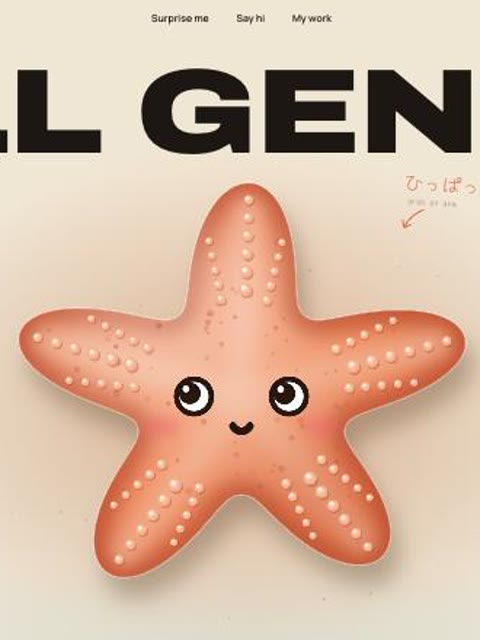
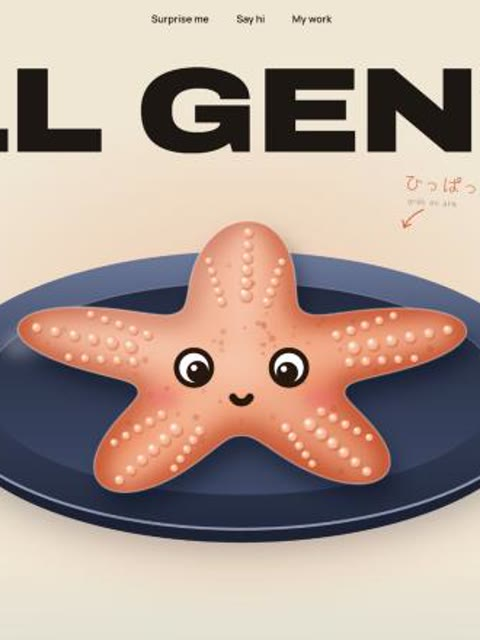
Starfish hero: Hoshi on the navy plate, 13 facial expressions, side text and stamp removed

diff --git a/designs/starfish-hero.html b/designs/starfish-hero.html
@@ -117,9 +117,6 @@
     <div class="meta"><span>Manisha Baroliya · <b>UX/UI &amp; product designer</b></span><span>3+ years · <b>20+ live designs</b></span></div>
     <h1 id="h1"><span id="h1t">PULL GENTLY<span class="dot">.</span></span></h1>
 
-    <div class="kana l" aria-hidden="true">ひとで</div>
-    <div class="kana r" aria-hidden="true">きらきら</div>
-    <div class="stamp" id="stamp" aria-hidden="true"><i>海</i><b>ほし</b></div>
 
     <canvas id="cv"></canvas>
     <div id="stage" tabindex="0" role="img" aria-label="Hoshi the starfish. Drag one of his arms to stretch it, or focus and hold the arrow keys."></div>
@@ -161,7 +158,7 @@
   const POOL = 5;
   const $ = id => document.getElementById(id);
   const hero = $('hero'), cv = $('cv'), ctx = cv.getContext('2d'), stage = $('stage');
-  const hint = $('hint'), tip = $('tip'), stamp = $('stamp'), h1 = $('h1');
+  const hint = $('hint'), tip = $('tip'), h1 = $('h1');
   const moodEl = $('mood'), cmEl = $('cm'), fillEl = $('fill'), bestEl = $('bestm'), flavEl = $('flav');
   const reduce = matchMedia('(prefers-reduced-motion: reduce)').matches;
 
@@ -171,7 +168,7 @@
 
   // ---------- state ----------
   let W = 0, H = 0, dpr = 1, R = 100, cx = 0, cy = 0, Lmax = 100;
-  const N = 240, ARMS = 5, ARM_N = N / ARMS, YS = 0.9;   // YS: slight tilt so he lies on the sand
+  const N = 240, ARMS = 5, ARM_N = N / ARMS, YS = 0.62;   // YS: he lies on the plate, seen at an angle
   let rest = [], ang = [], armOf = [], gOf = [];
   const off = [], vel = [], tgt = [];
   for (let i = 0; i < N; i++) { off.push({x:0,y:0}); vel.push({x:0,y:0}); tgt.push({x:0,y:0}); }
@@ -183,6 +180,7 @@
   let look = {x:0, y:0};
   let clock = performance.now(), last = clock;
   let snapUntil = 0, wobbleUntil = 0, giggleUntil = 0, wiggleUntil = 0, pulledThisGrab = 0;
+  let dizzyUntil = 0, winkUntil = 0, loveUntil = 0, proudUntil = 0, idleAt = performance.now(), hoverSince = 0;
   const pool = [];
 
   // freckles fixed to the body: (vertex, how far out along it)
@@ -197,11 +195,17 @@
     cv.width = Math.round(W*dpr); cv.height = Math.round(H*dpr);
     fitTitle();
     const titleBottom = h1.offsetTop + h1.offsetHeight;
-    if (W < 760) { R = Math.min(W*0.46, H*0.26); cy = titleBottom + R*1.15; }
+    if (W < 760) { R = Math.min((W - 20)/2.66, H*0.24); cy = titleBottom + R*1.15; }
     else {
-      R = Math.min(W*0.2, H*0.38, 360, (H - titleBottom - 12)/1.95);
-      cy = Math.max(titleBottom + R*1.0, H*0.58);
-      if (cy + R*0.95 > H) cy = H - R*0.95;
+      R = Math.min(W*0.2, H*0.4, 360, (H - titleBottom - 16)/1.62);
+      cy = Math.max(titleBottom + R*0.72, H*0.58);
+      if (cy + R*0.9 > H) cy = H - R*0.9;
+      // on narrower screens keep the plate above the side panels instead of under them
+      const pan = document.querySelector('.panel'), panTop = pan.offsetTop, panLeft = pan.offsetLeft;
+      if (W/2 + 1.32*R > panLeft - 8) {
+        R = Math.min(R, (panTop - 10 - titleBottom)/1.52);
+        cy = Math.min(Math.max(titleBottom + R*0.72, cy), panTop - 10 - R*0.8);
+      }
     }
     cx = W/2; Lmax = R*1.05;
     rest = []; ang = []; armOf = []; gOf = [];
@@ -214,10 +218,9 @@
       armOf.push(Math.round(k/ARM_N) % ARMS); gOf.push(g);
     }
     for (let i = 0; i < N; i++) { off[i].x = off[i].y = vel[i].x = vel[i].y = 0; }
-    Object.assign(stage.style, { left: (cx - R*1.3) + 'px', top: (cy - R*1.2) + 'px', width: (R*2.6) + 'px', height: (R*2.3) + 'px' });
+    Object.assign(stage.style, { left: (cx - R*1.35) + 'px', top: (cy - R*0.95) + 'px', width: (R*2.7) + 'px', height: (R*1.9) + 'px' });
     hero.style.setProperty('--gy', cy + 'px');
-    stamp.style.left = Math.max(40, cx - R*1.3) + 'px'; stamp.style.top = (cy - R*0.75) + 'px';
-    hint.style.left = Math.min(W - 130, cx + R*0.7) + 'px'; hint.style.top = Math.max(titleBottom + 8, cy - R*1.12) + 'px';
+    hint.style.left = Math.min(W - 130, cx + R*0.7) + 'px'; hint.style.top = Math.max(titleBottom + 8, cy - R*0.85) + 'px';
     return true;
   }
   function fitTitle() {
@@ -275,11 +278,12 @@
   stage.addEventListener('pointermove', e => {
     const p = local(e); look = p;
     if (grab.on && !grab.kb && e.pointerId === grab.id) { grab.x = p.x; grab.y = p.y; return; }
-    hover = inBody(p.x, p.y);
+    const was = hover; hover = inBody(p.x, p.y); if (hover && !was) hoverSince = clock;
     stage.style.cursor = hover ? 'grab' : 'default';
   });
   stage.addEventListener('pointerleave', () => { if (!grab.on) hover = false; });
-  hero.addEventListener('pointermove', e => { look = local(e); });
+  hero.addEventListener('pointermove', e => { look = local(e); idleAt = clock; });
+  ['pointerdown', 'keydown', 'click'].forEach(ev => addEventListener(ev, () => { idleAt = clock; }, true));
   const end = e => { if (grab.on && !grab.kb && (!e || e.pointerId === grab.id)) release(false); };
   stage.addEventListener('pointerup', end);
   stage.addEventListener('pointercancel', end);
@@ -300,7 +304,7 @@
     if (!grab.on) return;
     grab.on = false; grab.kb = false;
     stage.style.cursor = hover ? 'grab' : 'default';
-    if (snapped) { snapUntil = clock + 1400; splash(22); }
+    if (snapped) { snapUntil = clock + 700; dizzyUntil = clock + 2300; splash(22); }
     else if (pulledThisGrab > 2) { wobbleUntil = clock + 1500; splash(9); }
     else giggleUntil = clock + 1100;
   }
@@ -331,7 +335,7 @@
     document.documentElement.style.setProperty('--acc', f.acc); hero.style.setProperty('--glow', f.body);
     [...swEl.children].forEach((b, j) => b.setAttribute('aria-pressed', j === i));
     flavEl.innerHTML = `${f.deep}<em>${f.jp}</em><span>· ${f.name} Hoshi</span>`;
-    if (!quiet) { bubbles(26); giggleUntil = clock + 900; }
+    if (!quiet) { bubbles(26); winkUntil = clock + 1300; }
   }
   const boxEl = $('box'), build = $('build'), topBox = $('topBox');
   function renderPool() {
@@ -343,7 +347,8 @@
     if (pool.length >= POOL) { pool.length = 0; renderPool(); return; }
     pool.push(fl); renderPool();
     popText(pool.length >= POOL ? 'いっぱい!' : '+1', cx, cy - R*1.1);
-    bubbles(10); giggleUntil = clock + 900;
+    bubbles(10);
+    if (pool.length >= POOL) proudUntil = clock + 2000; else loveUntil = clock + 1400;
   }
   build.addEventListener('click', addToPool);
   swEl.addEventListener('click', renderPool);
@@ -424,12 +429,20 @@
     bodyC = mix(bodyC, hex(FL[fl].body), 0.07);
   }
 
+  let forced = null;   // test hook only
   function currentMood(t) {
+    if (forced) return forced;
     if (snapUntil > t) return 'ow';
+    if (dizzyUntil > t && !grab.on) return 'dizzy';
     if (grab.on) { const cm = toCm(L); return cm < 1 ? 'startled' : cm > 15 ? 'ow' : 'squished'; }
-    if (wiggleUntil > t) return 'wiggly';
+    if (wiggleUntil > t) return 'waving';
+    if (proudUntil > t) return 'proud';
+    if (loveUntil > t) return 'in love';
+    if (winkUntil > t) return 'cheeky';
     if (wobbleUntil > t) return 'wobbly';
-    if (giggleUntil > t || hover) return 'delighted';
+    if (giggleUntil > t) return 'delighted';
+    if (hover) return t - hoverSince > 2500 ? 'shy' : 'delighted';
+    if (t - idleAt > 9000) return 'sleepy';
     return 'chill';
   }
 
@@ -444,16 +457,25 @@
     const B = bodyC, deep = B.map(v => v*v/255*0.78), light = mix(B, [255,250,235], 0.45);
     const ccx = cx + ax, ccy = cy + ay;
 
-    // wet sand under him
-    ctx.save(); ctx.translate(cx, cy + R*0.12); ctx.scale(1, 0.62);
-    const ws = ctx.createRadialGradient(0, 0, R*0.3, 0, 0, R*1.8);
-    ws.addColorStop(0, 'rgba(150,115,75,.2)'); ws.addColorStop(1, 'rgba(150,115,75,0)');
-    ctx.fillStyle = ws; ctx.fillRect(-R*2, -R*2, R*4, R*4); ctx.restore();
-    // a few grains of sand
-    ctx.fillStyle = 'rgba(140,105,65,.22)';
-    for (let i = 0; i < 40; i++) { const a = i*2.399, d = R*(0.95 + (i%7)*0.12); ctx.beginPath(); ctx.arc(cx + Math.cos(a)*d*1.25, cy + R*0.1 + Math.sin(a)*d*0.55, 0.8 + (i%3)*0.5, 0, 7); ctx.fill(); }
-    // contact shadow
-    soft(R*0.1, 'rgba(90,55,25,.35)', () => { ctx.translate(R*0.04, R*0.09); ctx.fill(bodyPath); });
+    // the navy plate he lies on (same plate as Pon the mochi)
+    const px = cx, py = cy + 0.1*R, prx = 1.32*R, pry = 0.6*R;
+    soft(R*0.16, 'rgba(25,30,55,.33)', () => { ctx.beginPath(); ctx.ellipse(px, py + 0.16*R, prx*0.95, pry*0.85, 0, 0, 7); ctx.fill(); });
+    ctx.beginPath(); ctx.ellipse(px, py + 0.07*R, prx*0.97, pry*0.97, 0, 0, 7); ctx.fillStyle = '#1b2236'; ctx.fill();
+    let pg = ctx.createLinearGradient(0, py - pry, 0, py + pry);
+    pg.addColorStop(0, '#6b7b9e'); pg.addColorStop(.45, '#36425f'); pg.addColorStop(1, '#222b42');
+    ctx.beginPath(); ctx.ellipse(px, py, prx, pry, 0, 0, 7); ctx.fillStyle = pg; ctx.fill();
+    pg = ctx.createLinearGradient(0, py - pry*0.8, 0, py + pry*0.8);
+    pg.addColorStop(0, '#222a40'); pg.addColorStop(1, '#3d4a6a');
+    ctx.beginPath(); ctx.ellipse(px, py - 0.01*R, prx*0.84, pry*0.76, 0, 0, 7); ctx.fillStyle = pg; ctx.fill();
+    ctx.save(); ctx.lineCap = 'round';
+    ctx.strokeStyle = 'rgba(214,226,255,.6)'; ctx.lineWidth = Math.max(1.2, R*0.012);
+    ctx.beginPath(); ctx.ellipse(px, py, prx*0.995, pry*0.99, 0, Math.PI*0.12, Math.PI*0.88); ctx.stroke();
+    ctx.strokeStyle = 'rgba(214,226,255,.25)'; ctx.lineWidth = Math.max(1, R*0.006);
+    ctx.beginPath(); ctx.ellipse(px, py - 0.01*R, prx*0.84, pry*0.76, 0, Math.PI*1.1, Math.PI*1.9); ctx.stroke();
+    ctx.restore();
+    soft(R*0.06, 'rgba(255,255,255,.35)', () => { ctx.beginPath(); ctx.ellipse(px - prx*0.62, py - pry*0.4, prx*0.16, pry*0.12, -0.3, 0, 7); ctx.fill(); });
+    // his shadow on the plate
+    soft(R*0.09, 'rgba(8,12,28,.5)', () => { ctx.translate(R*0.03, R*0.07); ctx.fill(bodyPath); });
 
     // body base: lighter heart, deeper arm tips
     const bg = ctx.createRadialGradient(ccx, ccy, R*0.05, ccx, ccy, R*1.25);
@@ -517,62 +539,164 @@
     else tip.classList.remove('on');
   }
 
+  // every mood is a mix of eyes, mouth, brows, blush and a small extra
+  const FACES = {
+    chill:     { eyes:'round',  mouth:'smile',  blush:.4 },
+    delighted: { eyes:'happy',  mouth:'open',   blush:.6 },
+    shy:       { eyes:'down',   mouth:'wavy',   blush:.95, lines:true },
+    sleepy:    { eyes:'closed', mouth:'tiny',   blush:.35, extra:'zzz' },
+    startled:  { eyes:'big',    mouth:'o',      blush:.35, brows:'up' },
+    squished:  { eyes:'chev',   mouth:'o',      blush:.6, brows:'worried', lines:true, extra:'sweat' },
+    ow:        { eyes:'chev',   mouth:'bigO',   blush:.7, brows:'worried', lines:true, extra:'tear' },
+    dizzy:     { eyes:'spiral', mouth:'wavy',   blush:.45, extra:'stars' },
+    wobbly:    { eyes:'wavy',   mouth:'wavy',   blush:.5 },
+    waving:    { eyes:'happy',  mouth:'open',   blush:.7, brows:'up' },
+    cheeky:    { eyes:'wink',   mouth:'tongue', blush:.65 },
+    'in love': { eyes:'heart',  mouth:'open',   blush:.85, extra:'hearts' },
+    proud:     { eyes:'star',   mouth:'grin',   blush:.6, brows:'up', extra:'sparkle' },
+  };
+  function heartPath(x, y, s) {
+    ctx.beginPath(); ctx.moveTo(x, y + s*0.7);
+    ctx.bezierCurveTo(x - s*1.3, y - s*0.1, x - s*0.6, y - s*1.05, x, y - s*0.35);
+    ctx.bezierCurveTo(x + s*0.6, y - s*1.05, x + s*1.3, y - s*0.1, x, y + s*0.7);
+    ctx.closePath();
+  }
+  function starPath(x, y, ro, ri, rot = 0) {
+    ctx.beginPath();
+    for (let k = 0; k < 10; k++) { const a = rot - Math.PI/2 + k*Math.PI/5, r = k % 2 ? ri : ro; k ? ctx.lineTo(x + Math.cos(a)*r, y + Math.sin(a)*r) : ctx.moveTo(x + Math.cos(a)*r, y + Math.sin(a)*r); }
+    ctx.closePath();
+  }
   function drawFace(t, fx0, fy0) {
     const m = currentMood(t);
     if (m !== mood) { mood = m; moodEl.textContent = m; moodEl.classList.remove('bump'); void moodEl.offsetWidth; moodEl.classList.add('bump'); }
+    const F = FACES[m] || FACES.chill;
     const S = R*0.68, fx = fx0 + D.x*0.04, fy = fy0 + D.y*0.03 + S*0.02;
-    const ex = 0.3*S, lw = Math.max(2, S*0.05), ink = '#2a160c';
+    const ex = 0.3*S, lw = Math.max(2, S*0.05), ink = '#2a160c', r = 0.11*S, ey = fy - 0.02*S;
     ctx.save(); ctx.lineCap = 'round'; ctx.lineJoin = 'round'; ctx.strokeStyle = ink; ctx.fillStyle = ink; ctx.lineWidth = lw;
-    const strong = m !== 'chill' && m !== 'startled';
+
+    // blush, with little lines when flustered
     for (const s of [-1, 1]) {
-      soft(S*0.07, `rgba(255,80,110,${strong ? .6 : .4})`, () => { ctx.beginPath(); ctx.ellipse(fx + s*0.5*S, fy + 0.17*S, S*0.11, S*0.065, 0, 0, 7); ctx.fill(); });
-      if (m === 'squished' || m === 'ow') {
+      soft(S*0.07, `rgba(255,80,110,${F.blush})`, () => { ctx.beginPath(); ctx.ellipse(fx + s*0.5*S, fy + 0.17*S, S*0.11*(0.8 + F.blush*0.3), S*0.065, 0, 0, 7); ctx.fill(); });
+      if (F.lines) {
         ctx.save(); ctx.strokeStyle = 'rgba(190,40,70,.55)'; ctx.lineWidth = Math.max(1, S*0.014);
         for (let j = -1; j <= 1; j++) { const x = fx + s*0.5*S + j*S*0.04; ctx.beginPath(); ctx.moveTo(x - S*0.015, fy + 0.21*S); ctx.lineTo(x + S*0.015, fy + 0.13*S); ctx.stroke(); }
         ctx.restore();
       }
     }
-    const r = 0.11*S;
+
+    // eyes
     for (const s of [-1, 1]) {
-      const x = fx + s*ex, y = fy - 0.02*S;
-      if (m === 'startled' || m === 'chill') {
-        // round glossy eyes, looking at the pointer
-        const rr = m === 'startled' ? r*1.25 : r;
-        ctx.save(); ctx.fillStyle = '#fff'; ctx.lineWidth = lw*0.7;
-        ctx.beginPath(); ctx.arc(x, y, rr, 0, 7); ctx.fill(); ctx.stroke();
-        const dx = look.x - x, dy = look.y - y, dl = Math.hypot(dx, dy) || 1, pr = rr*0.3;
+      const x = fx + s*ex, y = ey;
+      let kind = F.eyes;
+      if (kind === 'wink') kind = s < 0 ? 'round' : 'happy';
+      if (kind === 'round' || kind === 'big') {
+        const rr = kind === 'big' ? r*1.3 : r;
         const blink = m === 'chill' && (t % 4200) < 130;
-        ctx.fillStyle = ink;
-        if (blink) { ctx.fillStyle = rgb(bodyC); ctx.beginPath(); ctx.arc(x, y, rr*1.1, 0, 7); ctx.fill(); ctx.beginPath(); ctx.moveTo(x - rr, y); ctx.lineTo(x + rr, y); ctx.stroke(); }
+        ctx.save(); ctx.lineWidth = lw*0.7;
+        if (blink) { ctx.beginPath(); ctx.moveTo(x - rr, y); ctx.lineTo(x + rr, y); ctx.stroke(); }
         else {
-          ctx.beginPath(); ctx.arc(x + dx/dl*pr, y + dy/dl*pr, rr*0.62, 0, 7); ctx.fill();
-          ctx.fillStyle = '#fff'; ctx.beginPath(); ctx.arc(x + dx/dl*pr - rr*0.22, y + dy/dl*pr - rr*0.25, rr*0.2, 0, 7); ctx.fill();
+          ctx.fillStyle = '#fff'; ctx.beginPath(); ctx.arc(x, y, rr, 0, 7); ctx.fill(); ctx.stroke();
+          const dx = look.x - x, dy = look.y - y, dl = Math.hypot(dx, dy) || 1, pr = rr*0.3;
+          const pupil = kind === 'big' ? 0.42 : 0.62;
+          ctx.fillStyle = ink; ctx.beginPath(); ctx.arc(x + dx/dl*pr, y + dy/dl*pr, rr*pupil, 0, 7); ctx.fill();
+          ctx.fillStyle = '#fff'; ctx.beginPath(); ctx.arc(x + dx/dl*pr - rr*0.2, y + dy/dl*pr - rr*0.22, rr*0.18, 0, 7); ctx.fill();
         }
         ctx.restore();
-      } else if (m === 'delighted' || m === 'wiggly') {
+      } else if (kind === 'happy') {
         ctx.beginPath(); ctx.arc(x, y + r*0.55, r, Math.PI*1.12, Math.PI*1.88); ctx.stroke();
-      } else if (m === 'wobbly') {
+      } else if (kind === 'down') {      // shy: eyes squeezed, looking away
+        ctx.beginPath(); ctx.arc(x + r*0.15, y + r*0.55, r*0.85, Math.PI*1.15, Math.PI*1.85); ctx.stroke();
+      } else if (kind === 'closed') {    // asleep: soft lids that rise and fall
+        const b = Math.sin(t/700)*r*0.06;
+        ctx.beginPath(); ctx.arc(x, y - r*0.35 + b, r, Math.PI*0.18, Math.PI*0.82); ctx.stroke();
+      } else if (kind === 'chev') {
+        const w = r*0.85, h2 = r*0.8;
+        ctx.beginPath(); ctx.moveTo(x - s*w, y - h2); ctx.lineTo(x + s*w*0.6, y); ctx.lineTo(x - s*w, y + h2); ctx.stroke();
+      } else if (kind === 'spiral') {
+        ctx.save(); ctx.lineWidth = lw*0.7; ctx.beginPath();
+        for (let k = 0; k <= 40; k++) { const u = k/40, a = u*Math.PI*5 + t/120*s, rr = r*1.1*u; k ? ctx.lineTo(x + Math.cos(a)*rr, y + Math.sin(a)*rr) : ctx.moveTo(x, y); }
+        ctx.stroke(); ctx.restore();
+      } else if (kind === 'wavy') {
         ctx.beginPath();
         for (let j = 0; j <= 12; j++) { const u = j/12, X = x - r + u*2*r, Y = y + Math.sin(u*Math.PI*3 + t/90)*r*0.25; j ? ctx.lineTo(X, Y) : ctx.moveTo(X, Y); }
         ctx.stroke();
-      } else {
-        const w = r*0.85, h2 = r*0.8;
-        ctx.beginPath(); ctx.moveTo(x - s*w, y - h2); ctx.lineTo(x + s*w*0.6, y); ctx.lineTo(x - s*w, y + h2); ctx.stroke();
+      } else if (kind === 'heart') {
+        const beat = 1 + 0.12*Math.max(0, Math.sin(t/140));
+        ctx.save(); ctx.fillStyle = '#ff4d6d'; heartPath(x, y, r*1.05*beat); ctx.fill();
+        ctx.fillStyle = 'rgba(255,255,255,.75)'; ctx.beginPath(); ctx.arc(x - r*0.45*beat, y - r*0.3*beat, r*0.18, 0, 7); ctx.fill(); ctx.restore();
+      } else if (kind === 'star') {
+        ctx.save(); ctx.fillStyle = '#ffc93c'; ctx.strokeStyle = ink; ctx.lineWidth = lw*0.55;
+        starPath(x, y, r*1.25, r*0.55, Math.sin(t/300)*0.15); ctx.fill(); ctx.stroke(); ctx.restore();
       }
     }
-    const my = fy + 0.17*S;
-    if (m === 'chill') {
-      ctx.beginPath(); ctx.arc(fx, my - 0.03*S, 0.06*S, 0.15*Math.PI, 0.85*Math.PI); ctx.stroke();
-    } else if (m === 'delighted' || m === 'wiggly') {
-      ctx.beginPath(); ctx.moveTo(fx - 0.09*S, my - 0.02*S); ctx.arc(fx, my - 0.02*S, 0.09*S, 0, Math.PI); ctx.closePath(); ctx.fill();
-      ctx.fillStyle = '#ff6f8c'; ctx.beginPath(); ctx.ellipse(fx, my + 0.04*S, 0.045*S, 0.024*S, 0, 0, 7); ctx.fill();
-    } else if (m === 'startled' || m === 'squished') {
-      ctx.lineWidth = lw*0.85; ctx.beginPath(); ctx.ellipse(fx, my, 0.034*S, 0.044*S, 0, 0, 7); ctx.stroke();
-    } else if (m === 'ow') {
-      ctx.beginPath(); ctx.ellipse(fx, my + 0.01*S, 0.055*S, 0.075*S, 0, 0, 7); ctx.fill();
-      ctx.fillStyle = '#ff6f8c'; ctx.beginPath(); ctx.ellipse(fx, my + 0.055*S, 0.032*S, 0.017*S, 0, 0, 7); ctx.fill();
-    } else {
-      ctx.beginPath(); for (let j = 0; j <= 10; j++) { const u = j/10, X = fx - 0.07*S + u*0.14*S, Y = my + Math.sin(u*Math.PI*2 + t/80)*0.018*S; j ? ctx.lineTo(X, Y) : ctx.moveTo(X, Y); } ctx.stroke();
+
+    // brows
+    if (F.brows) {
+      ctx.save(); ctx.lineWidth = lw*0.75;
+      for (const s of [-1, 1]) {
+        const x = fx + s*ex, y = ey - r*(F.eyes === 'big' ? 1.9 : 1.55);
+        ctx.beginPath();
+        if (F.brows === 'up') { ctx.arc(x, y + r*0.5, r*0.75, Math.PI*1.25, Math.PI*1.75); }
+        else { ctx.moveTo(x - s*r*0.7, y + r*0.2); ctx.lineTo(x + s*r*0.5, y - r*0.25); }   // worried: inner ends raised
+        ctx.stroke();
+      }
+      ctx.restore();
+    }
+
+    // mouth
+    const my = fy + 0.17*S, wav = (w, amp, sp) => { ctx.beginPath(); for (let j = 0; j <= 10; j++) { const u = j/10, X = fx - w + u*2*w, Y = my + Math.sin(u*Math.PI*2 + t/sp)*amp; j ? ctx.lineTo(X, Y) : ctx.moveTo(X, Y); } ctx.stroke(); };
+    switch (F.mouth) {
+      case 'smile': ctx.beginPath(); ctx.arc(fx, my - 0.03*S, 0.06*S, 0.15*Math.PI, 0.85*Math.PI); ctx.stroke(); break;
+      case 'open': case 'grin': {
+        const w = F.mouth === 'grin' ? 0.12*S : 0.09*S;
+        ctx.beginPath(); ctx.moveTo(fx - w, my - 0.02*S); ctx.arc(fx, my - 0.02*S, w, 0, Math.PI); ctx.closePath(); ctx.fill();
+        if (F.mouth === 'grin') { ctx.fillStyle = '#fff'; ctx.fillRect(fx - w*0.7, my - 0.02*S, w*1.4, w*0.22); }
+        ctx.fillStyle = '#ff6f8c'; ctx.beginPath(); ctx.ellipse(fx, my + w*0.45, w*0.5, w*0.26, 0, 0, 7); ctx.fill();
+        break;
+      }
+      case 'o': ctx.save(); ctx.lineWidth = lw*0.85; ctx.beginPath(); ctx.ellipse(fx, my, 0.034*S, 0.044*S, 0, 0, 7); ctx.stroke(); ctx.restore(); break;
+      case 'tiny': { const b = 1 + 0.25*Math.sin(t/700); ctx.beginPath(); ctx.ellipse(fx, my, 0.018*S*b, 0.022*S*b, 0, 0, 7); ctx.fill(); break; }
+      case 'bigO':
+        ctx.beginPath(); ctx.ellipse(fx, my + 0.01*S, 0.055*S, 0.075*S, 0, 0, 7); ctx.fill();
+        ctx.fillStyle = '#ff6f8c'; ctx.beginPath(); ctx.ellipse(fx, my + 0.055*S, 0.032*S, 0.017*S, 0, 0, 7); ctx.fill(); break;
+      case 'wavy': wav(0.07*S, 0.018*S, 80); break;
+      case 'tongue':
+        ctx.beginPath(); ctx.arc(fx, my - 0.03*S, 0.07*S, 0.12*Math.PI, 0.88*Math.PI); ctx.stroke();
+        ctx.fillStyle = '#ff6f8c'; ctx.beginPath(); ctx.ellipse(fx + 0.02*S, my + 0.045*S, 0.035*S, 0.045*S, 0.2, 0, Math.PI); ctx.fill();
+        ctx.strokeStyle = 'rgba(180,40,70,.6)'; ctx.lineWidth = Math.max(1, S*0.01); ctx.beginPath(); ctx.moveTo(fx + 0.02*S, my + 0.045*S); ctx.lineTo(fx + 0.02*S, my + 0.075*S); ctx.stroke();
+        break;
+    }
+
+    // extras
+    const top = fy - 0.45*S;
+    if (F.extra === 'sweat' && toCm(L) > 6) {
+      ctx.save(); const x = fx + ex + r*1.6, y = ey - r*1.2 + (t/12 % (r*1.5));
+      ctx.fillStyle = 'rgba(130,200,240,.9)'; ctx.beginPath(); ctx.moveTo(x, y - r*0.7); ctx.quadraticCurveTo(x + r*0.5, y, x, y + r*0.35); ctx.quadraticCurveTo(x - r*0.5, y, x, y - r*0.7); ctx.fill(); ctx.restore();
+    } else if (F.extra === 'tear') {
+      ctx.save(); ctx.fillStyle = 'rgba(130,200,240,.9)';
+      for (const s of [-1, 1]) { const x = fx + s*ex, y = ey + r*0.9 + (t/9 % (r*1.6)); ctx.beginPath(); ctx.ellipse(x, y, r*0.22, r*0.32, 0, 0, 7); ctx.fill(); }
+      ctx.restore();
+    } else if (F.extra === 'zzz') {
+      ctx.save(); ctx.fillStyle = ink; ctx.textAlign = 'center';
+      for (let k = 0; k < 3; k++) {
+        const ph = ((t/1400) + k/3) % 1;
+        ctx.globalAlpha = Math.sin(ph*Math.PI);
+        ctx.font = `700 ${Math.round(S*(0.09 + ph*0.08))}px Manrope, sans-serif`;
+        ctx.fillText('z', fx + ex + S*0.18 + ph*S*0.25, top - ph*S*0.35);
+      }
+      ctx.restore();
+    } else if (F.extra === 'stars') {
+      ctx.save(); ctx.fillStyle = '#ffc93c';
+      for (let k = 0; k < 3; k++) { const a = t/400 + k*Math.PI*2/3; starPath(fx + Math.cos(a)*S*0.42, top + Math.sin(a)*S*0.1, r*0.45, r*0.2, a); ctx.fill(); }
+      ctx.restore();
+    } else if (F.extra === 'hearts') {
+      ctx.save(); ctx.fillStyle = '#ff4d6d';
+      for (let k = 0; k < 3; k++) { const ph = ((t/1200) + k/3) % 1; ctx.globalAlpha = Math.sin(ph*Math.PI); heartPath(fx + (k - 1)*S*0.32 + Math.sin(ph*6)*r*0.4, top - ph*S*0.4, r*0.45); ctx.fill(); }
+      ctx.restore();
+    } else if (F.extra === 'sparkle') {
+      ctx.save(); ctx.fillStyle = '#fff6c9';
+      for (let k = 0; k < 4; k++) { const a = k*Math.PI/2 + t/600, tw = 0.6 + 0.4*Math.sin(t/150 + k*2); starPath(fx + Math.cos(a)*S*0.55, fy + Math.sin(a)*S*0.3 - S*0.05, r*0.5*tw, r*0.12*tw, 0); ctx.fill(); }
+      ctx.restore();
     }
     ctx.restore();
   }
@@ -600,7 +724,7 @@
   if (document.fonts) document.fonts.ready.then(() => { ready = size(); });
   requestAnimationFrame(frame);
   // ?test lets an automated check step frames while the tab is in the background
-  if (/[?&]test\b/.test(location.search)) window.__pon = { run(ms) { let t = last; for (let k = 0; k < ms/16; k++) { t += 16; if (!ready) ready = size(); step(t, 16); draw(t); panel(); last = t; } }, state: () => ({ mood, L, best, sq }) };
+  if (/[?&]test\b/.test(location.search)) window.__pon = { run(ms) { let t = last; for (let k = 0; k < ms/16; k++) { t += 16; if (!ready) ready = size(); step(t, 16); draw(t); panel(); last = t; } }, state: () => ({ mood, L, best, sq }), force: m => { forced = m; } };
 })();
 </script>
 </body>
